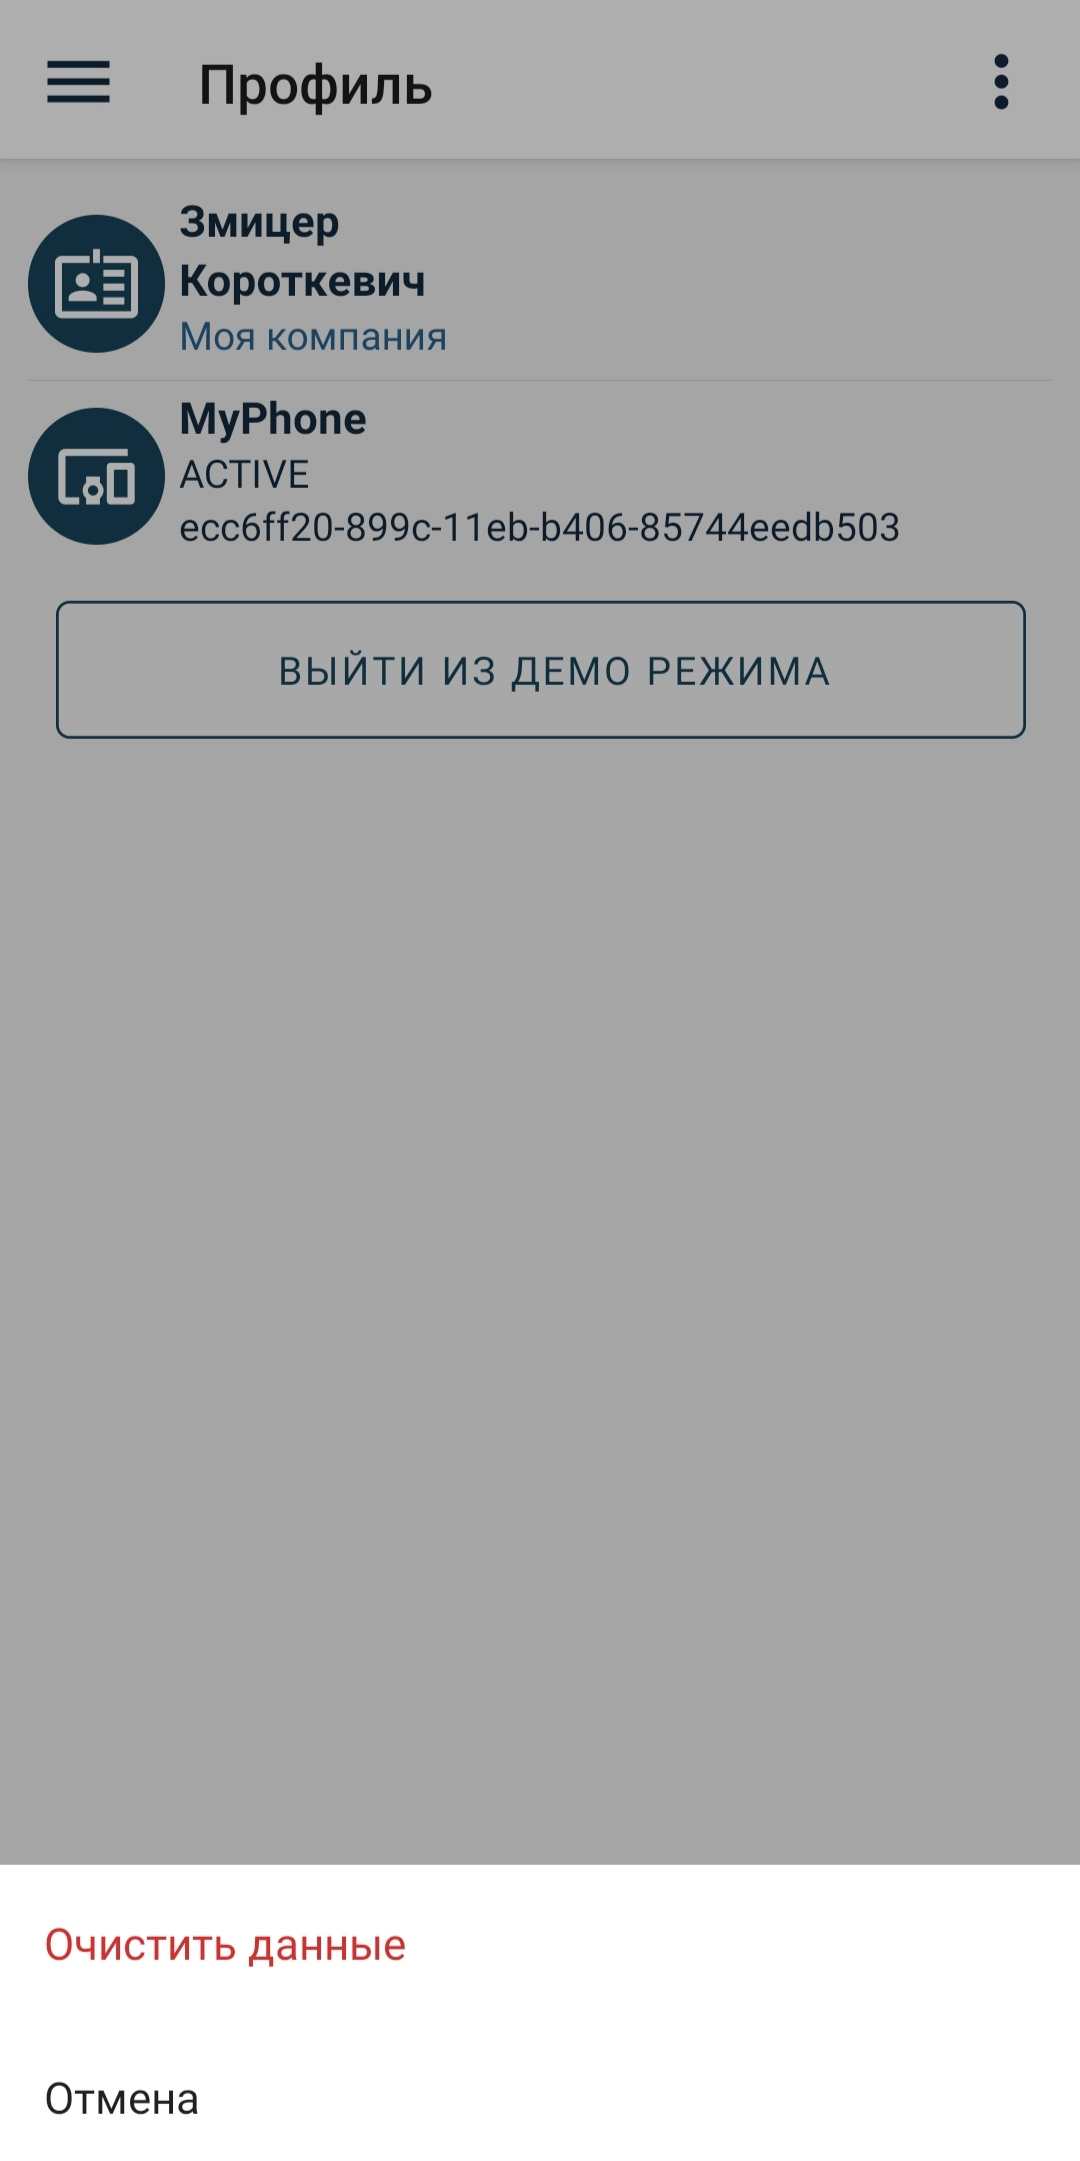
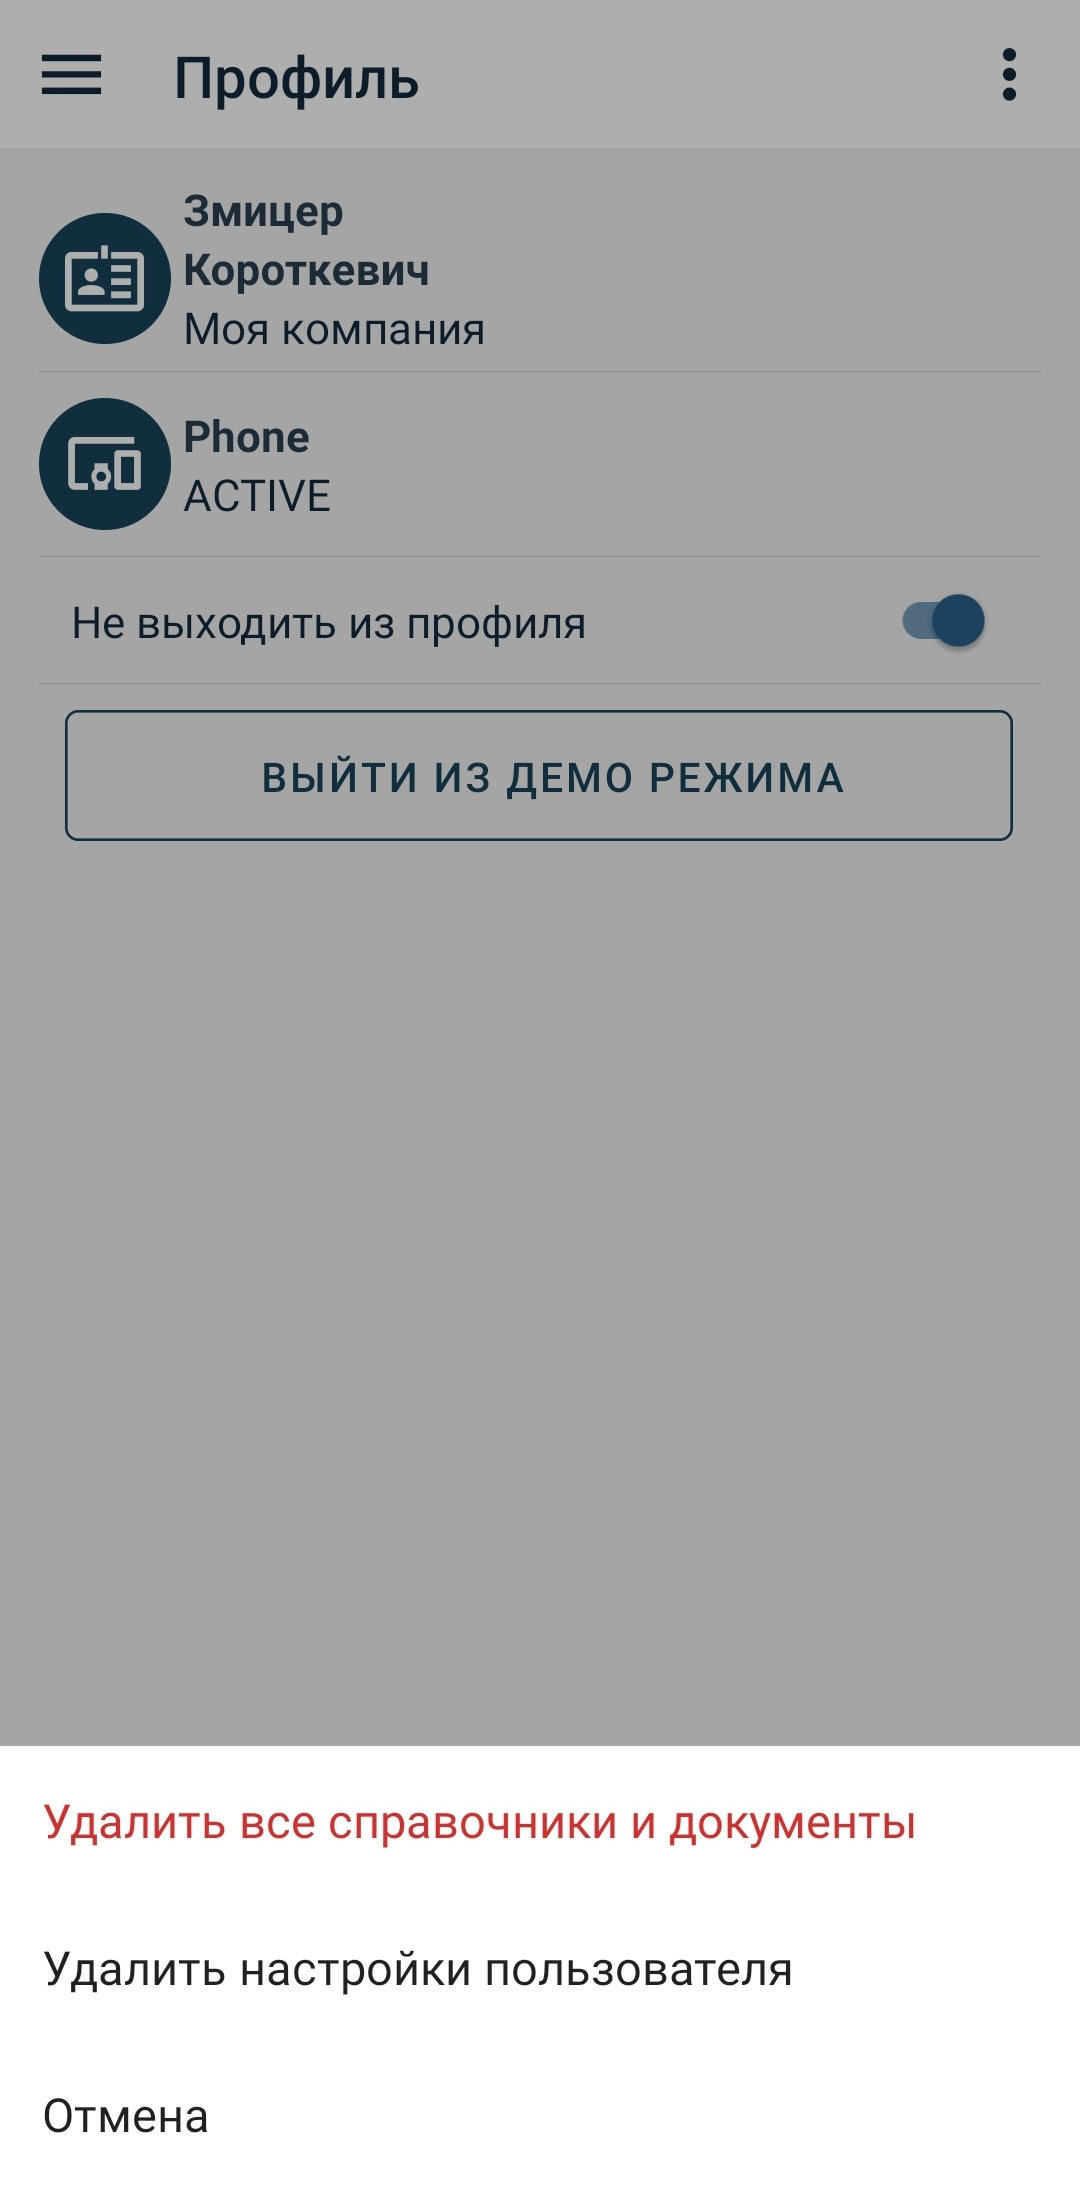
changes docs

diff --git a/docs/gdmn-app-trade-agents/docs/README.md b/docs/gdmn-app-trade-agents/docs/README.md
@@ -197,8 +197,8 @@
 
 <img src="img/3.Orders/3.GroupTwo.jpg" alt="drawing" height="400"/>
 
-Обработка нажатия элемента товара сделана так:
-Если щелкнуть по товару, который не добавлен в заявку, то откроется окно добавления позиции с вводом количества и выбором упаковки. Назад возвращаться по кнопке < в верхней части экрана. Сохранить - по иконке V. 
+????Обработка нажатия элемента товара сделана так:
+Если щелкнуть по товару, который не добавлен в заявку, то откроется окно добавления позиции с вводом количества и выбором упаковки. Назад возвращаться по кнопке < в верхней части экрана. Сохранить - по иконке V. ????
 
 
 По нажатию на иконку " **✓** " позиция сохранится и приложение перейдет на экран просмотра документа.
@@ -505,6 +505,8 @@
 Если параметр **Не выходить из профиля** отключить, то при каждом новом открытии приложения нужно будет вводить данные пользователя.
 
 Также этот экран позволяет удалить все справочники и документы. Для этого необходимо нажать на иконку меню, расположенную в правом верхнем углу, и выбрать пункт **Удалить все справочники и документы**.
+
+Также позволяет удалить настройки пользователя. Необходимо нажать на иконку меню " **≡** ", расположенную в правом верхнем углу, и выбрать пункт **Удалить настройки пользователя**.
 
 <img src="img/9.Profile/9.ClearData.jpg" alt="drawing" height="400"/>
 
